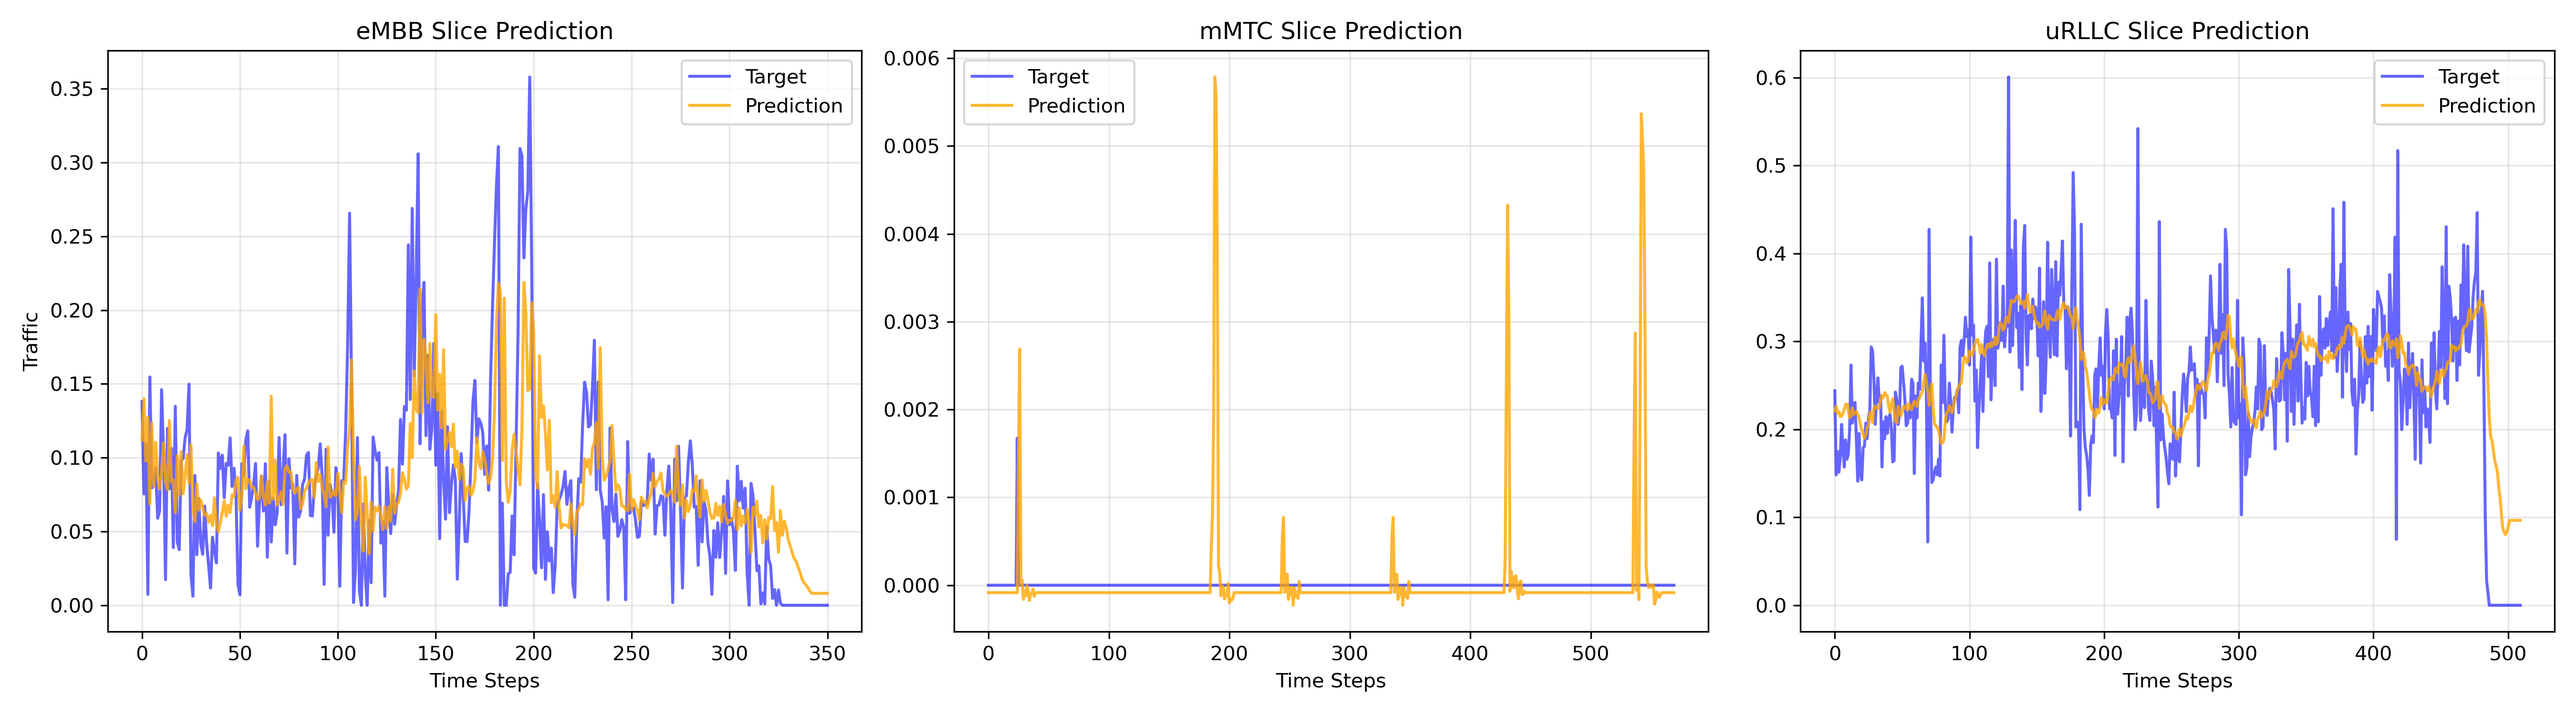
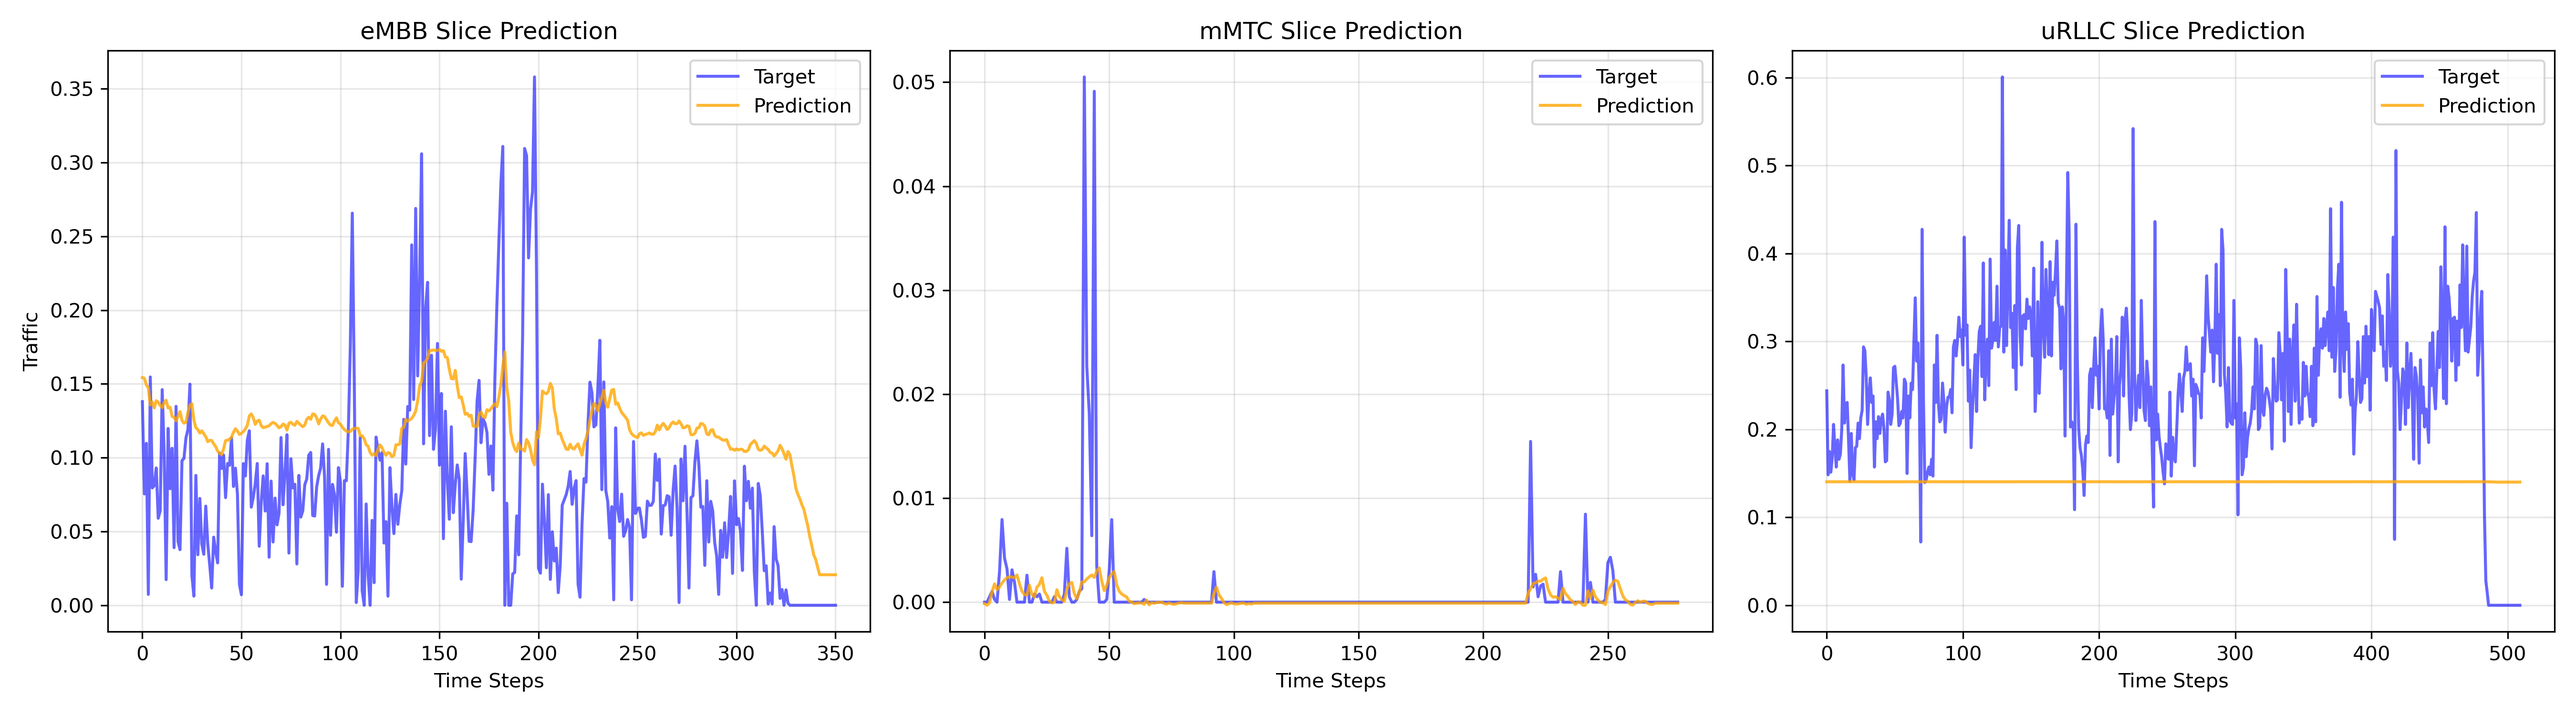
different dataset result

diff --git a/model3/train.py b/model3/train.py
@@ -20,7 +20,7 @@ def main():
     processor = DataProcessor(sequenceLength)
 
     embb_path = '../Dataset/Trial7/embb_03_03c.csv'
-    mmtc_path = '../Dataset/Trial7/Raw/mmtc_2.csv'
+    mmtc_path = '../Dataset/Trial7/mmtc_2.csv'
     urllc_path = '../Dataset/Trial7/Raw/urll_11_18.csv'
 
     def get_fitted_scalers(path):
@@ -153,7 +153,7 @@ def main():
             x, y = x.to(device), y.to(device)
             opt_mmtc.zero_grad()
             pred = model_mmtc(x)
-            loss = criterion_mse(pred, y)
+            loss = quantile_loss(pred, y, 0.7)
             loss.backward()
             opt_mmtc.step()
             epochs_loss_mmtc += loss.item()
@@ -193,7 +193,7 @@ def main():
             for x, y in val_loader_mmtc:
                 x, y = x.to(device), y.to(device)
                 pred = model_mmtc(x)
-                loss = criterion_mse(pred, y)
+                loss = quantile_loss(pred, y, 0.7)
                 val_loss_mmtc += loss.item()
 
             for x, y in val_loader_urllc:
